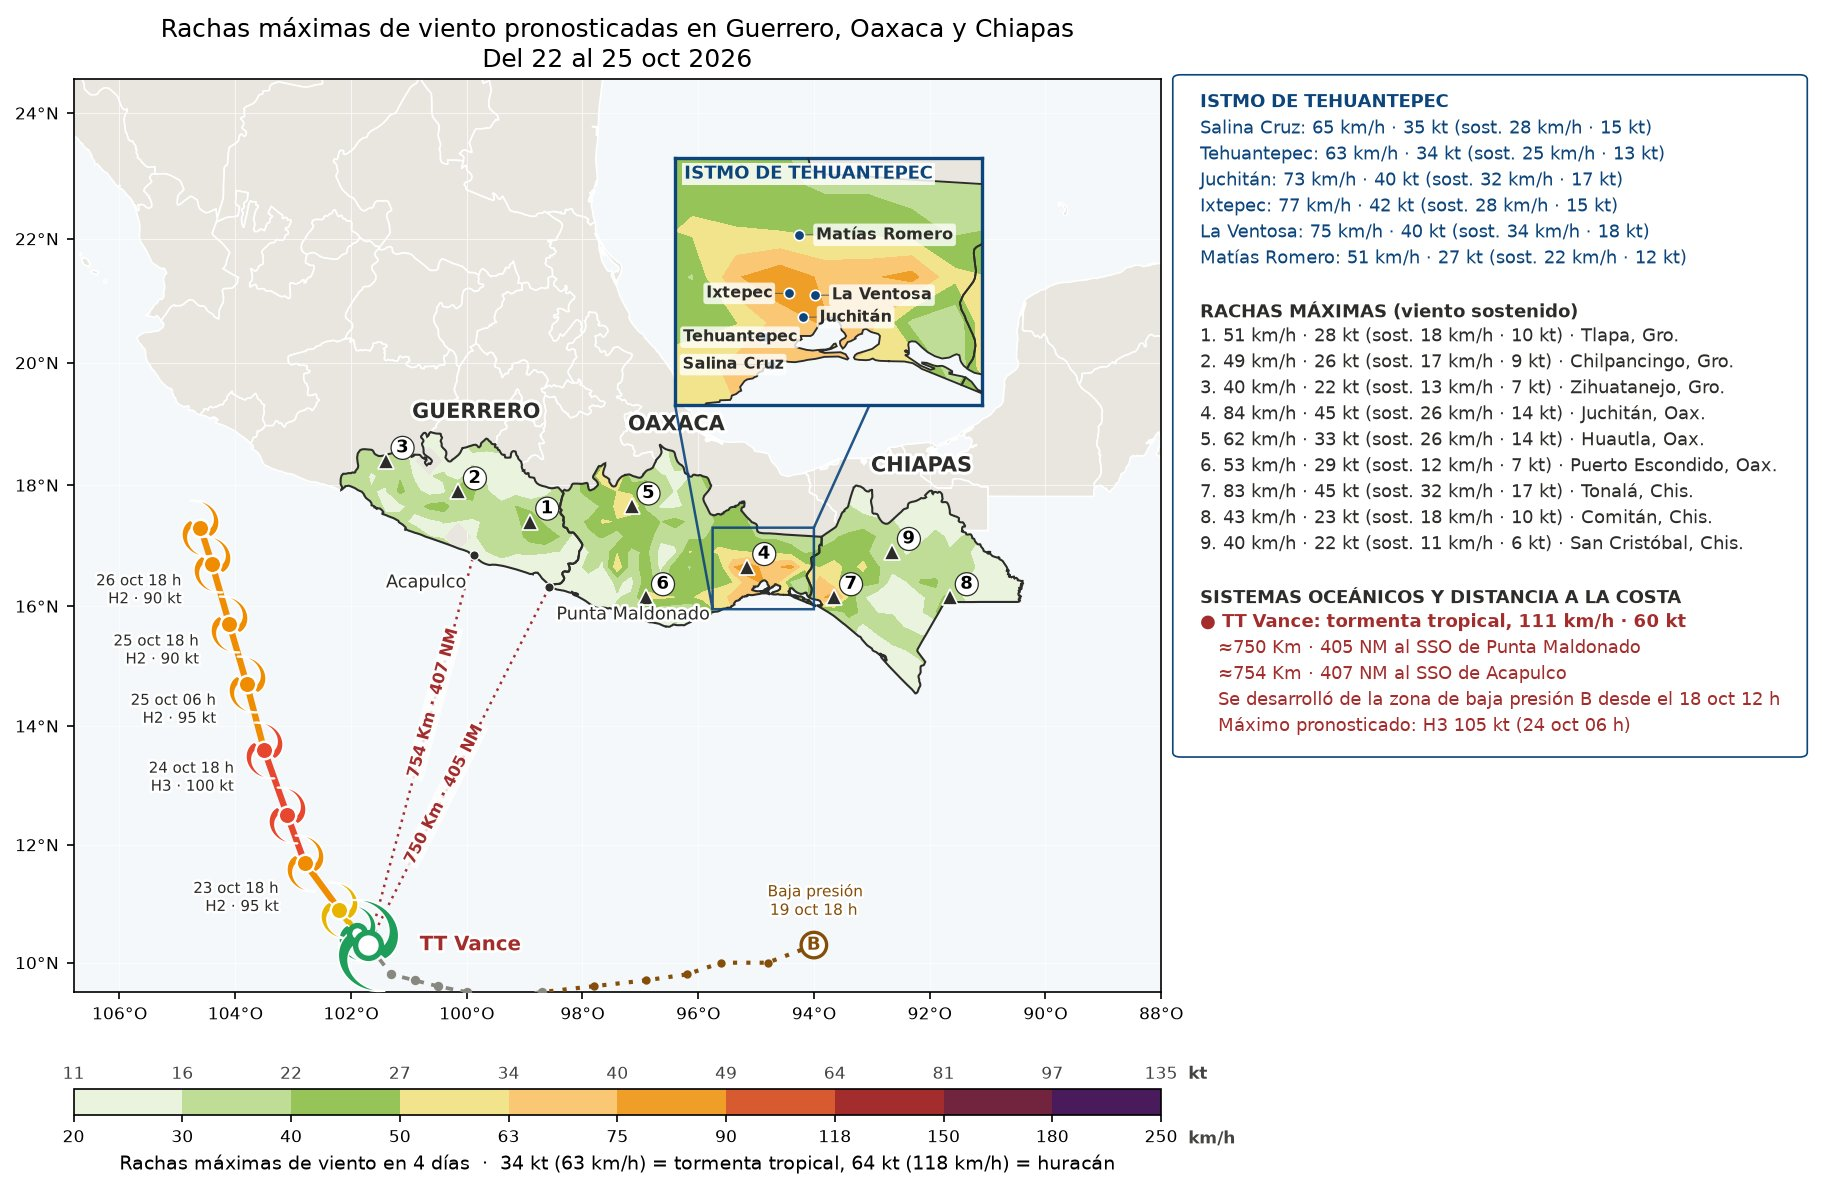
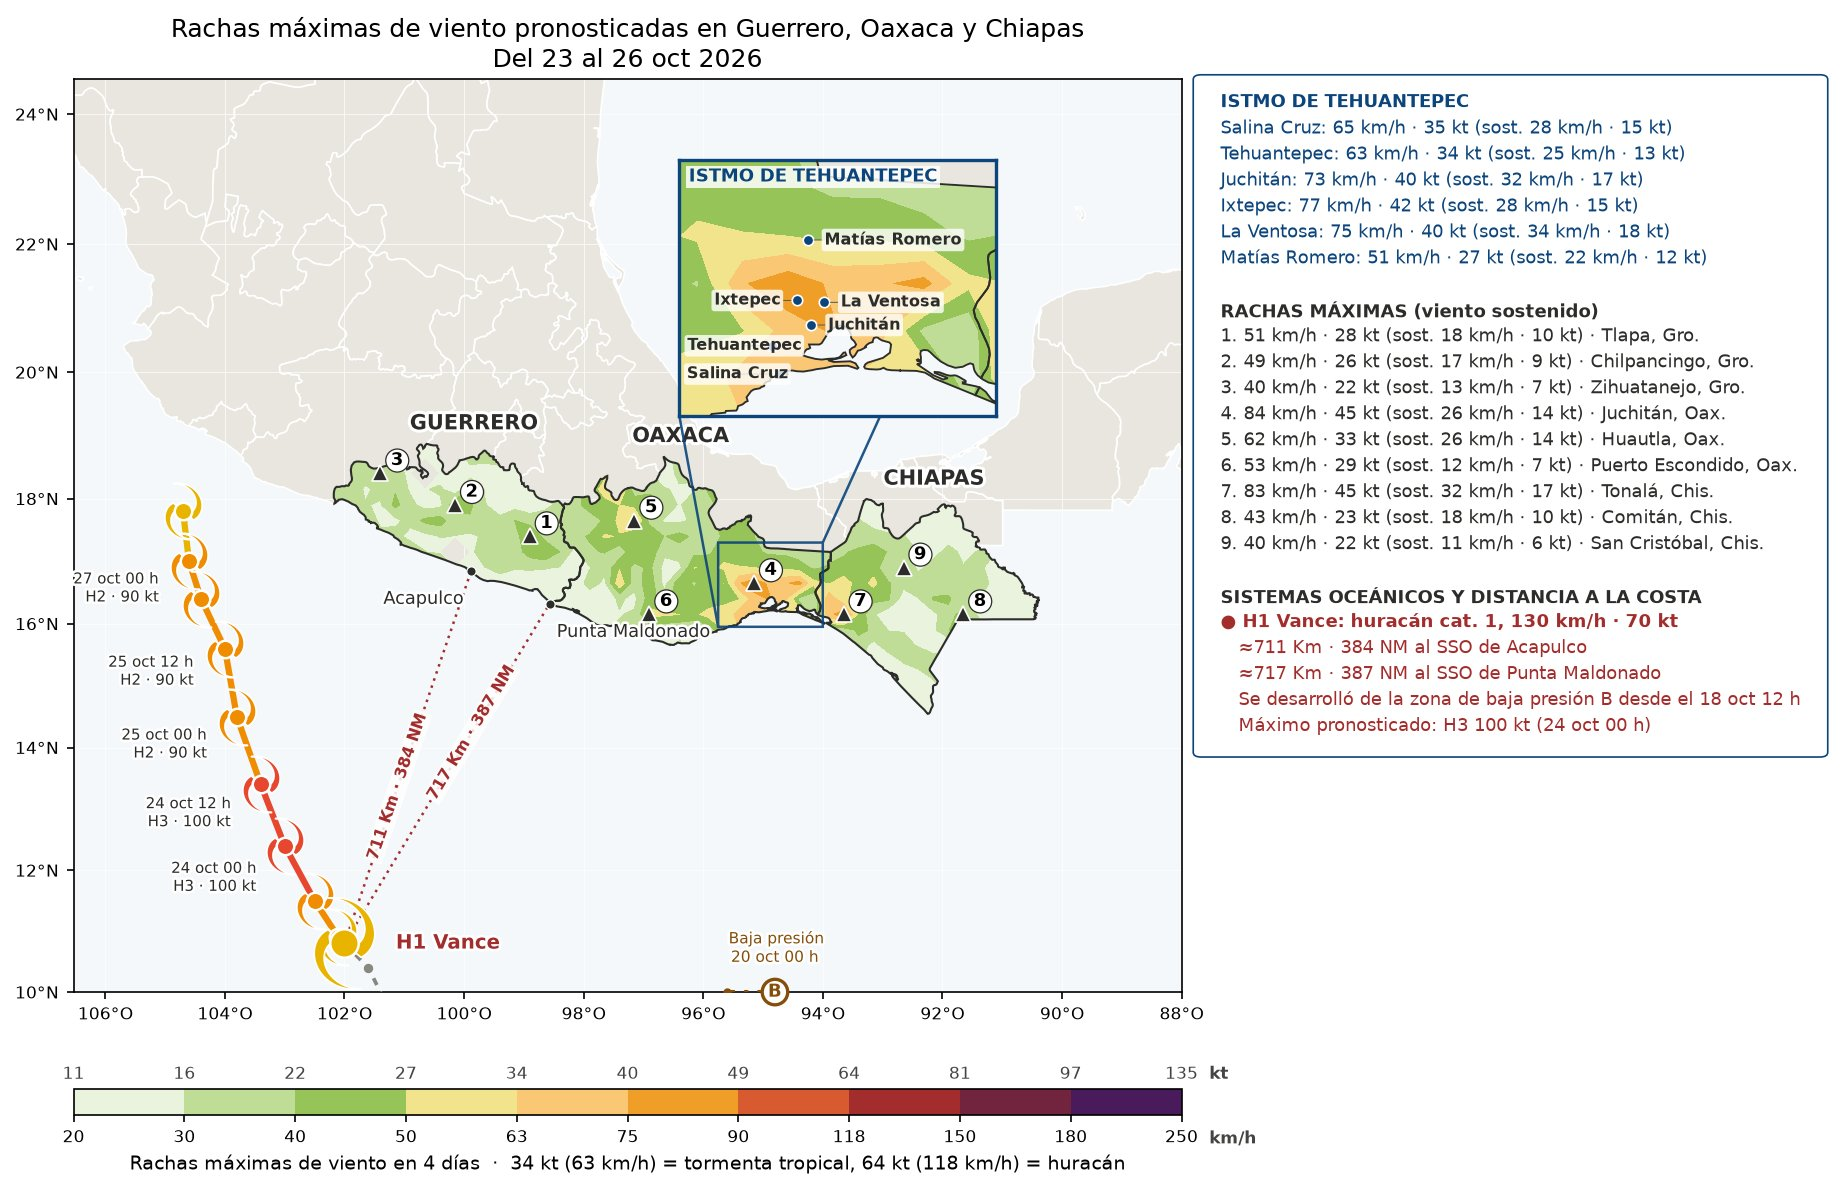
Monitor 23/10 03:07 (mapas nuevos)

diff --git a/index.html b/index.html
@@ -62,7 +62,7 @@ pre{overflow-x:auto;font-size:.75rem;background:var(--bg);padding:10px;border-ra
 <section class="t" id="sec_log"><details><summary>Registro (últimas líneas)</summary><pre id="log"></pre></details></section>
 </main>
 <div id="zoom"><img alt=""></div>
-<script id="datos" type="application/json">{"generado": "2026-10-23T02:27:03.036018", "ultima_revision": "2026-10-23T02:27:03.014375", "decision": "sin cambios", "ultima_imagen": "2026-10-22T23:07:14.363150", "motivo_imagen": "cambios acumulados en 3 h: nhc", "pendientes": [], "intervalo_h": 3, "resumen": {"ciclones": {"ep222026": {"nombre": "Vance", "kt": 60, "cat": "TT"}}, "zonas": []}, "historial": [{"fecha": "2026-10-21T08:50:23.611108", "motivo": "CAMBIO SIGNIFICATIVO: Twenty-Two-E entró a la jurisdicción (DT)"}, {"fecha": "2026-10-21T10:39:57.224515", "motivo": "manual (--forzar)"}, {"fecha": "2026-10-21T11:09:36.695799", "motivo": "manual (--forzar)"}, {"fecha": "2026-10-21T12:47:14.163333", "motivo": "CAMBIO SIGNIFICATIVO: una zona de baja presión dejó de afectar la jurisdicción"}, {"fecha": "2026-10-21T14:37:14.543348", "motivo": "CAMBIO SIGNIFICATIVO: Vance cambió de categoría DT → TT"}, {"fecha": "2026-10-21T17:50:14.361831", "motivo": "cambios acumulados en 3 h: modelo"}, {"fecha": "2026-10-21T21:00:41.013700", "motivo": "cambios acumulados en 3 h: modelo"}, {"fecha": "2026-10-22T00:07:16.005030", "motivo": "cambios acumulados en 3 h: nhc"}, {"fecha": "2026-10-22T03:17:15.474786", "motivo": "cambios acumulados en 3 h: nhc"}, {"fecha": "2026-10-22T06:30:19.909550", "motivo": "cambios acumulados en 3 h: modelo"}, {"fecha": "2026-10-22T09:40:18.265752", "motivo": "cambios acumulados en 3 h: nhc, modelo"}, {"fecha": "2026-10-22T13:37:25.982695", "motivo": "manual (--forzar)"}, {"fecha": "2026-10-22T16:50:12.796107", "motivo": "cambios acumulados en 3 h: nhc, modelo"}, {"fecha": "2026-10-22T20:00:33.390363", "motivo": "cambios acumulados en 3 h: modelo"}, {"fecha": "2026-10-22T23:07:14.363150", "motivo": "cambios acumulados en 3 h: nhc"}], "imagenes": {"lluvia": {"src": "lluvia.jpg?v=202610222307", "fecha": "2026-10-22T23:07:08.109956"}, "viento": {"src": "viento.jpg?v=202610222307", "fecha": "2026-10-22T23:07:12.649589"}}, "log": [], "umbral_av": 50, "umbral_mal": 110}</script>
+<script id="datos" type="application/json">{"generado": "2026-10-23T03:07:13.443914", "ultima_revision": "2026-10-23T03:07:13.407994", "decision": "imágenes generadas", "ultima_imagen": "2026-10-23T03:07:13.407994", "motivo_imagen": "CAMBIO SIGNIFICATIVO: Vance cambió de categoría TT → H1", "pendientes": [], "intervalo_h": 3, "resumen": {"ciclones": {"ep222026": {"nombre": "Vance", "kt": 75, "cat": "H1"}}, "zonas": []}, "historial": [{"fecha": "2026-10-21T10:39:57.224515", "motivo": "manual (--forzar)"}, {"fecha": "2026-10-21T11:09:36.695799", "motivo": "manual (--forzar)"}, {"fecha": "2026-10-21T12:47:14.163333", "motivo": "CAMBIO SIGNIFICATIVO: una zona de baja presión dejó de afectar la jurisdicción"}, {"fecha": "2026-10-21T14:37:14.543348", "motivo": "CAMBIO SIGNIFICATIVO: Vance cambió de categoría DT → TT"}, {"fecha": "2026-10-21T17:50:14.361831", "motivo": "cambios acumulados en 3 h: modelo"}, {"fecha": "2026-10-21T21:00:41.013700", "motivo": "cambios acumulados en 3 h: modelo"}, {"fecha": "2026-10-22T00:07:16.005030", "motivo": "cambios acumulados en 3 h: nhc"}, {"fecha": "2026-10-22T03:17:15.474786", "motivo": "cambios acumulados en 3 h: nhc"}, {"fecha": "2026-10-22T06:30:19.909550", "motivo": "cambios acumulados en 3 h: modelo"}, {"fecha": "2026-10-22T09:40:18.265752", "motivo": "cambios acumulados en 3 h: nhc, modelo"}, {"fecha": "2026-10-22T13:37:25.982695", "motivo": "manual (--forzar)"}, {"fecha": "2026-10-22T16:50:12.796107", "motivo": "cambios acumulados en 3 h: nhc, modelo"}, {"fecha": "2026-10-22T20:00:33.390363", "motivo": "cambios acumulados en 3 h: modelo"}, {"fecha": "2026-10-22T23:07:14.363150", "motivo": "cambios acumulados en 3 h: nhc"}, {"fecha": "2026-10-23T03:07:13.407994", "motivo": "CAMBIO SIGNIFICATIVO: Vance cambió de categoría TT → H1"}], "imagenes": {"lluvia": {"src": "lluvia.jpg?v=202610230307", "fecha": "2026-10-23T03:07:07.381703"}, "viento": {"src": "viento.jpg?v=202610230307", "fecha": "2026-10-23T03:07:11.827428"}}, "log": [], "umbral_av": 50, "umbral_mal": 110}</script>
 <script>
 const D = JSON.parse(document.getElementById("datos").textContent);
 const $ = id => document.getElementById(id);
